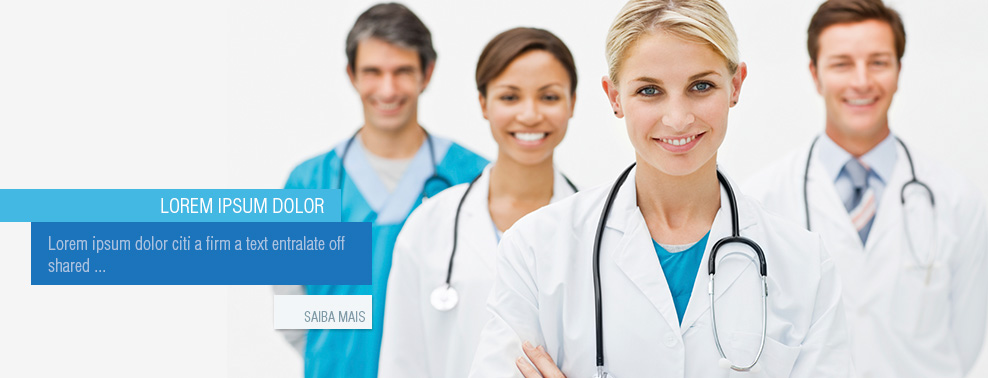
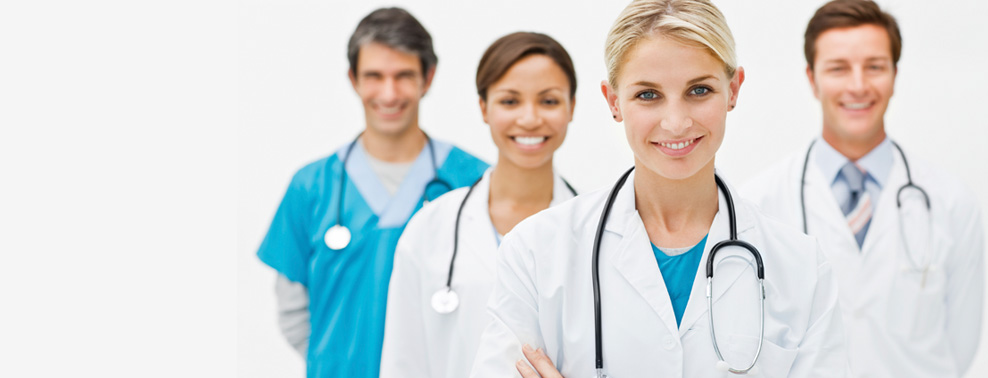
Add caption

diff --git a/css/main.css b/css/main.css
@@ -1,1 +1,1 @@
-.link-btn{padding:10px 5px 5px 30px;text-transform:uppercase;font-size:14px;color:#7f9ba9;text-decoration:none;background-color:#f2f6f8;box-shadow:1px 1px 2px rgba(0,0,0,.4)}*{margin:0;padding:0;list-style:none}h2{color:#656565}p{font-size:13px;color:#878787;line-height:1.3em}body{min-width:988px;background-color:#eee;font-family:'Roboto Condensed',sans-serif;font-weight:400}header{height:200px;width:100%;background-color:#f2f6f8;box-shadow:0 3px 4px rgba(0,0,0,.2);position:relative;z-index:2}header nav{float:right;margin-top:154px}header nav li{float:left;margin-right:20px}header nav li a{text-decoration:none;font-size:12px;text-transform:uppercase;color:#2c2f8e;padding-bottom:20px;border-bottom:5px solid transparent}header nav li a:hover{border-bottom:5px solid #9896ba}header .logo{margin:20px 0 0 20px}section{width:988px;margin:0 auto;position:relative;z-index:1;display:table}#sh-box{height:378px;border-radius:15%;box-shadow:0 6px 3px -4px rgba(0,0,0,.2)}#box-info{width:100%;height:275px;margin-top:50px;background-color:#c8c8c8;color:#656565;text-align:center}#box-info ul li{width:327px;height:225px;margin-top:25px;border-left:1px solid #acacac;border-right:1px solid #dddfe0;float:left;position:relative}#box-info ul li:first-child{border-left:0 none}#box-info ul li:last-child{border-right:0 none}#box-info ul li p{margin:20px auto 0;width:230px;font-size:13px}#box-info ul li a{padding:10px 5px 5px 30px;text-transform:uppercase;font-size:14px;color:#7f9ba9;text-decoration:none;background-color:#f2f6f8;box-shadow:1px 1px 2px rgba(0,0,0,.4);position:absolute;bottom:0;right:20px}#the-clinic{width:545px;margin-top:80px;float:left}#the-clinic img{margin:30px 0 10px}#last-news{width:365px;height:310px;margin-top:80px;float:right;position:relative}#last-news ul{margin-top:30px}#last-news ul li{padding:5px 0;margin:5px 0;border-bottom:1px dotted #CCC}#last-news ul li:first-child{margin-top:0;padding-top:0}#last-news ul li:last-child{border:0 none}#last-news ul li a{text-decoration:none;display:table}#last-news ul li a:hover{background-color:#e9e8e8}#last-news ul li a img{float:left;margin:0 5px 5px 0}#last-news a.link{padding:10px 5px 5px 30px;text-transform:uppercase;font-size:14px;color:#7f9ba9;text-decoration:none;background-color:#f2f6f8;box-shadow:1px 1px 2px rgba(0,0,0,.4);position:absolute;bottom:0;right:20px}#banner{min-width:988px;height:378px;position:relative;overflow:hidden}#banner #slides-content{width:988px;position:absolute;left:50%;margin-left:-494px}#banner #slides-content #slides{width:988px;margin:0 auto}#banner #slides-content #slides .slide{width:988px;height:378px}#banner #slides-content #slides .caption{width:415px;height:85px;position:absolute;top:220px;left:350px;z-index:99;padding:20px;background:#000;background:rgba(0,0,0,.5);text-align:left}#banner #slides-content #slides .caption h3{width:550px;font-size:54px;color:#FFF;text-shadow:3px 3px 3px #222;margin:-90px 0 0 -20px;text-transform:uppercase}#banner #slides-content #slides .caption p{margin-top:30px;font:20px Arial,Helvetica,sans-serif;color:#FFF}#banner #slides-content #slides .caption a{font-size:15px;letter-spacing:1px;color:#FFF;position:absolute;top:80px;left:290px;text-decoration:none;border-radius:9px;padding:5px 13px;background:#42929d;text-transform:uppercase}#banner #slides-content #slides .pagination{width:72px;margin:-30px auto 0;position:relative;z-index:9}#banner #slides-content #slides .pagination li{float:left;margin-right:10px;background:url(../images/bt_b.png) no-repeat}#banner #slides-content #slides .pagination li:last-child{margin:0}#banner #slides-content #slides .pagination li:hover{background-position:0 -18px}#banner #slides-content #slides .pagination li.current{background-position:0 -36px}#banner #slides-content #slides .pagination li a{width:17px;height:18px;display:block;line-height:99em}footer{width:100%;height:115px;margin-top:80px;background-color:#f2f6f8;border-top:1px solid #d7e0e4;text-align:center}footer p{margin-top:40px}footer ul{width:230px;margin:0 auto;text-align:center;display:table}footer ul li{float:left;margin-right:10px;padding-right:10px;text-align:center}footer ul li:last-child{border:0 none;margin:0;padding:0}footer ul li a{text-decoration:none;color:#a6b9c3;font-size:13px}
+.link-btn{padding:10px 5px 5px 30px;text-transform:uppercase;font-size:14px;color:#7f9ba9;text-decoration:none;background-color:#f2f6f8;box-shadow:1px 1px 2px rgba(0,0,0,.4)}*{margin:0;padding:0;list-style:none}h2{color:#656565;text-shadow:1px 1px 0 rgba(255,255,255,.3)}p{font-size:13px;color:#878787;line-height:1.3em}body{min-width:988px;background-color:#eee;font-family:'Roboto Condensed',sans-serif;font-weight:400}header{height:200px;width:100%;background-color:#f2f6f8;box-shadow:0 3px 4px rgba(0,0,0,.2);position:relative;z-index:2}header nav{float:right;margin-top:154px}header nav li{float:left;margin-right:20px}header nav li a{text-decoration:none;font-size:12px;text-transform:uppercase;color:#2c2f8e;padding-bottom:20px;border-bottom:5px solid transparent;transition:all .3s ease 0s}header nav li a:hover{border-bottom:5px solid #9896ba}header .logo{margin:20px 0 0 20px}section{width:988px;margin:0 auto;position:relative;z-index:1;display:table}#sh-box{height:378px;border-radius:15%;box-shadow:0 6px 3px -4px rgba(0,0,0,.2)}#box-info{width:100%;height:275px;margin-top:50px;background-color:#c8c8c8;color:#656565;text-align:center}#box-info ul li{width:327px;height:225px;margin-top:25px;border-left:1px solid #acacac;border-right:1px solid #dddfe0;float:left;position:relative}#box-info ul li:first-child{border-left:0 none}#box-info ul li:last-child{border-right:0 none}#box-info ul li p{margin:20px auto 0;width:230px;font-size:13px}#box-info ul li a{padding:10px 5px 5px 30px;text-transform:uppercase;font-size:14px;color:#7f9ba9;text-decoration:none;background-color:#f2f6f8;box-shadow:1px 1px 2px rgba(0,0,0,.4);position:absolute;bottom:0;right:20px}#the-clinic{width:545px;margin-top:80px;float:left}#the-clinic img{margin:30px 0 10px}#last-news{width:365px;height:310px;margin-top:80px;float:right;position:relative}#last-news ul{margin-top:30px}#last-news ul li{padding:5px 0;margin:5px 0;border-bottom:1px dotted #CCC}#last-news ul li:first-child{margin-top:0;padding-top:0}#last-news ul li:last-child{border:0 none}#last-news ul li a{text-decoration:none;display:table}#last-news ul li a:hover{background-color:#e9e8e8}#last-news ul li a img{float:left;margin:0 5px 5px 0}#last-news a.link{padding:10px 5px 5px 30px;text-transform:uppercase;font-size:14px;color:#7f9ba9;text-decoration:none;background-color:#f2f6f8;box-shadow:1px 1px 2px rgba(0,0,0,.4);position:absolute;bottom:0;right:20px}#banner{min-width:988px;height:378px;position:relative;overflow:hidden}#banner #slides-content{width:988px;position:absolute;left:50%;margin-left:-494px}#banner #slides-content #slides{width:988px;margin:0 auto}#banner #slides-content #slides .slide{width:988px;height:378px}#banner #slides-content #slides .caption{width:300px;height:25px;position:absolute;top:222px;left:30px;z-index:99;padding:20px;background-color:#1c74bc;text-align:left}#banner #slides-content #slides .caption h3{width:310px;font-size:20px;padding:5px 15px;font-weight:400;text-align:right;color:#FFF;margin:-57px 0 0 -50px;background-color:#40b9e4;text-transform:uppercase}#banner #slides-content #slides .caption p{margin-top:23px;font-size:15px;color:#a5c0db}#banner #slides-content #slides .caption a{padding:10px 5px 5px 30px;text-transform:uppercase;font-size:14px;color:#7f9ba9;text-decoration:none;background-color:#f2f6f8;box-shadow:1px 1px 2px rgba(0,0,0,.4);float:right;margin:30px -20px 0}#banner #slides-content #slides .pagination{width:72px;margin:-30px auto 0;position:relative;z-index:9}#banner #slides-content #slides .pagination li{float:left;margin-right:10px;background:url(../images/bt_b.png) no-repeat}#banner #slides-content #slides .pagination li:last-child{margin:0}#banner #slides-content #slides .pagination li:hover{background-position:0 -18px}#banner #slides-content #slides .pagination li.current{background-position:0 -36px}#banner #slides-content #slides .pagination li a{width:17px;height:18px;display:block;line-height:99em}footer{width:100%;height:115px;margin-top:80px;background-color:#f2f6f8;border-top:1px solid #d7e0e4;text-align:center}footer p{margin-top:40px}footer ul{width:230px;margin:0 auto;text-align:center;display:table}footer ul li{float:left;margin-right:10px;padding-right:10px;text-align:center}footer ul li:last-child{border:0 none;margin:0;padding:0}footer ul li a{text-decoration:none;color:#a6b9c3;font-size:13px}

diff --git a/_less/main.less b/_less/main.less
@@ -11,7 +11,7 @@
 }
 
 * { margin: 0; padding: 0; list-style: none; }
-h2 { color: #656565; }
+h2 { color: #656565; text-shadow: 1px 1px 0 rgba(255,255,255,.3); }
 
 p { font-size: 13px; color: #878787; line-height: 1.3em; }
 
@@ -45,6 +45,7 @@ header {
 				color: #2c2f8e;
 				padding-bottom: 20px;
 				border-bottom:5px solid transparent;
+				transition: all .3s ease 0s;
 
 				&:hover {
 					border-bottom:5px solid #9896ba;
@@ -193,43 +194,38 @@ section {
 			}
 
 			.caption {
-				width: 415px;
-				height: 85px;
+				width: 300px;
+				height: 25px;
 				position: absolute;
-				top: 220px;
-				left: 350px;
+				top: 222px;
+				left: 30px;
 				z-index: 99;
 				padding: 20px;
-				background: #000;
-				background: rgba(0,0,0,.5); text-align:left;
+				background-color: #1c74bc;
+				text-align:left;
 
 				h3 {
-					width: 550px;
-					font-size: 54px;
+					width: 310px;
+					font-size: 20px;
+					padding: 5px 15px;
+					font-weight: normal;
+					text-align: right;
 					color: #FFF;
-					text-shadow: 3px 3px 3px #222;
-					margin: -90px 0 0 -20px;
+					margin: -57px 0 0 -50px;
+					background-color: #40b9e4;
 					text-transform: uppercase;
 				}
 
 				p {
-					margin-top: 30px;
-					font: 20px Arial, Helvetica, sans-serif;
-					color: #FFF;
+					margin-top: 23px;
+					font-size: 15px;
+					color: #a5c0db;
 				}
 
 				a {
-					font-size: 15px;
-					letter-spacing: 1px;
-					color: #FFF;
-					position: absolute;
-					top: 80px;
-					left: 290px;
-					text-decoration: none;
-					border-radius: 9px;
-					padding: 5px 13px;
-					background: #42929d;
-					text-transform: uppercase; 
+					.link-btn();
+					float: right;
+					margin: 30px -20px 0;
 				}
 			}
 

diff --git a/index.html b/index.html
@@ -44,12 +44,27 @@
 
 						<li class="slide">
 							<img src="images/banner.jpg" alt="" />
+							<div class="caption">
+								<h3>LOREM IPSUM DOLOR</h3>
+								<p>Lorem ipsum dolor é um texto complementar</p>
+								<a href="#">SAIBA MAIS</a>
+							</div><!-- .caption -->
 						</li>
 						<li class="slide">
 							<img src="images/banner.jpg" alt="" />
+							<div class="caption">
+								<h3>LOREM IPSUM DOLOR</h3>
+								<p>Lorem ipsum dolor é um texto complementar</p>
+								<a href="#">SAIBA MAIS</a>
+							</div><!-- .caption -->
 						</li>
 						<li class="slide">
 							<img src="images/banner.jpg" alt="" />
+							<div class="caption">
+								<h3>LOREM IPSUM DOLOR</h3>
+								<p>Lorem ipsum dolor é um texto complementar</p>
+								<a href="#">SAIBA MAIS</a>
+							</div><!-- .caption -->
 						</li>
 
 					</ul><!--slides_container-->
